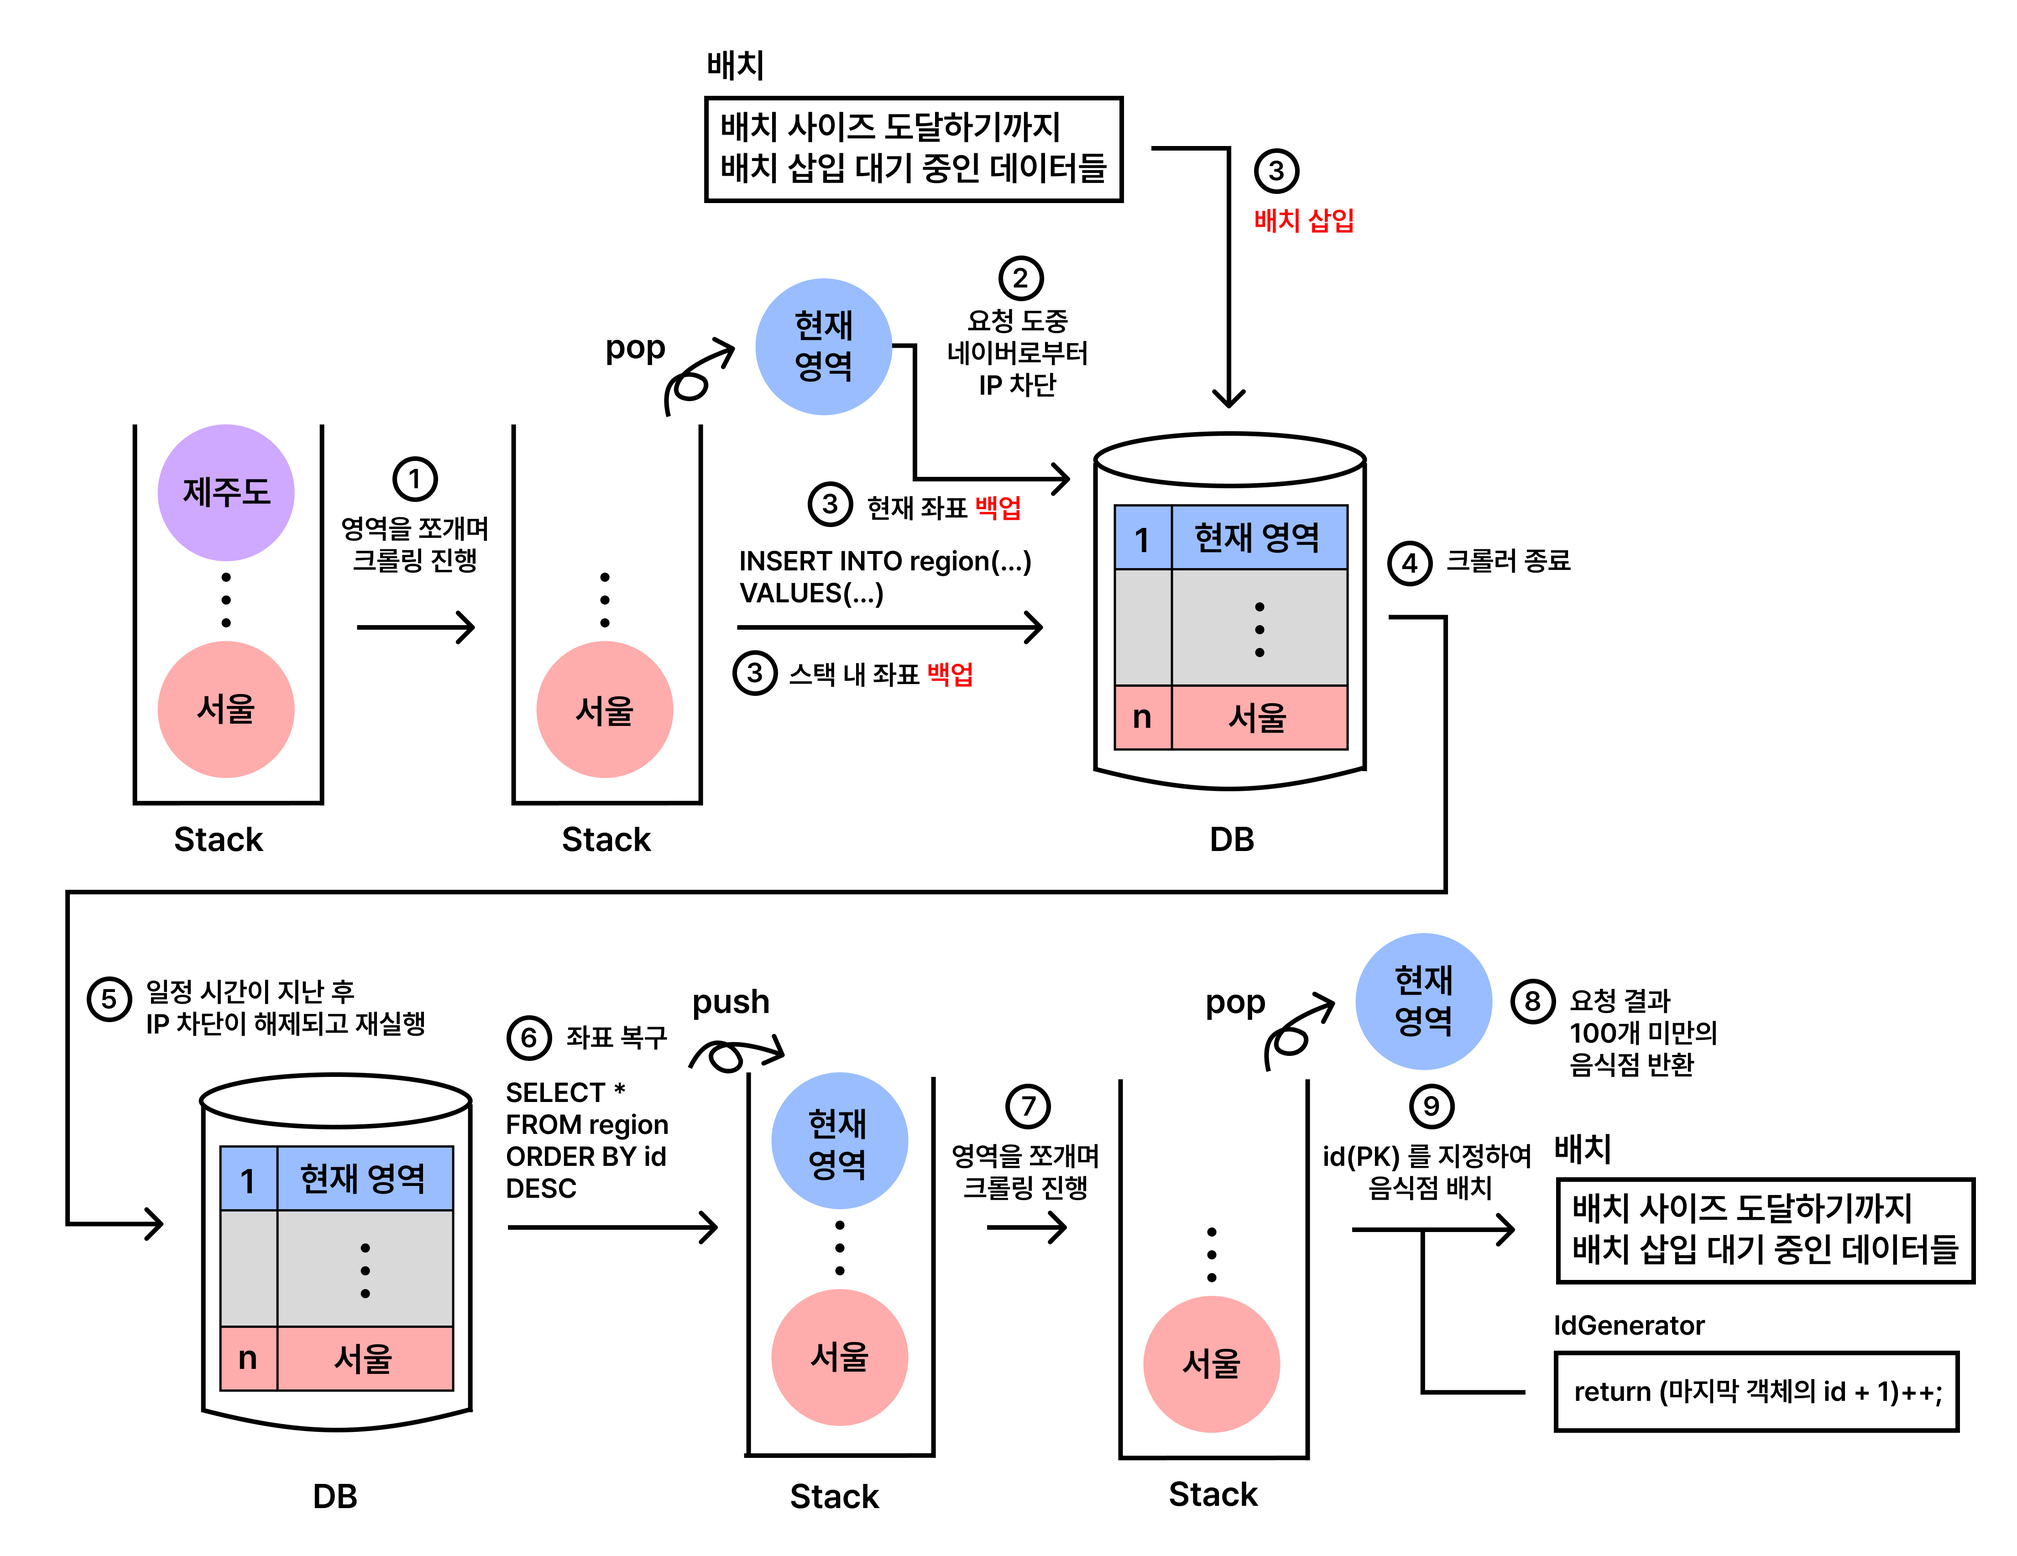
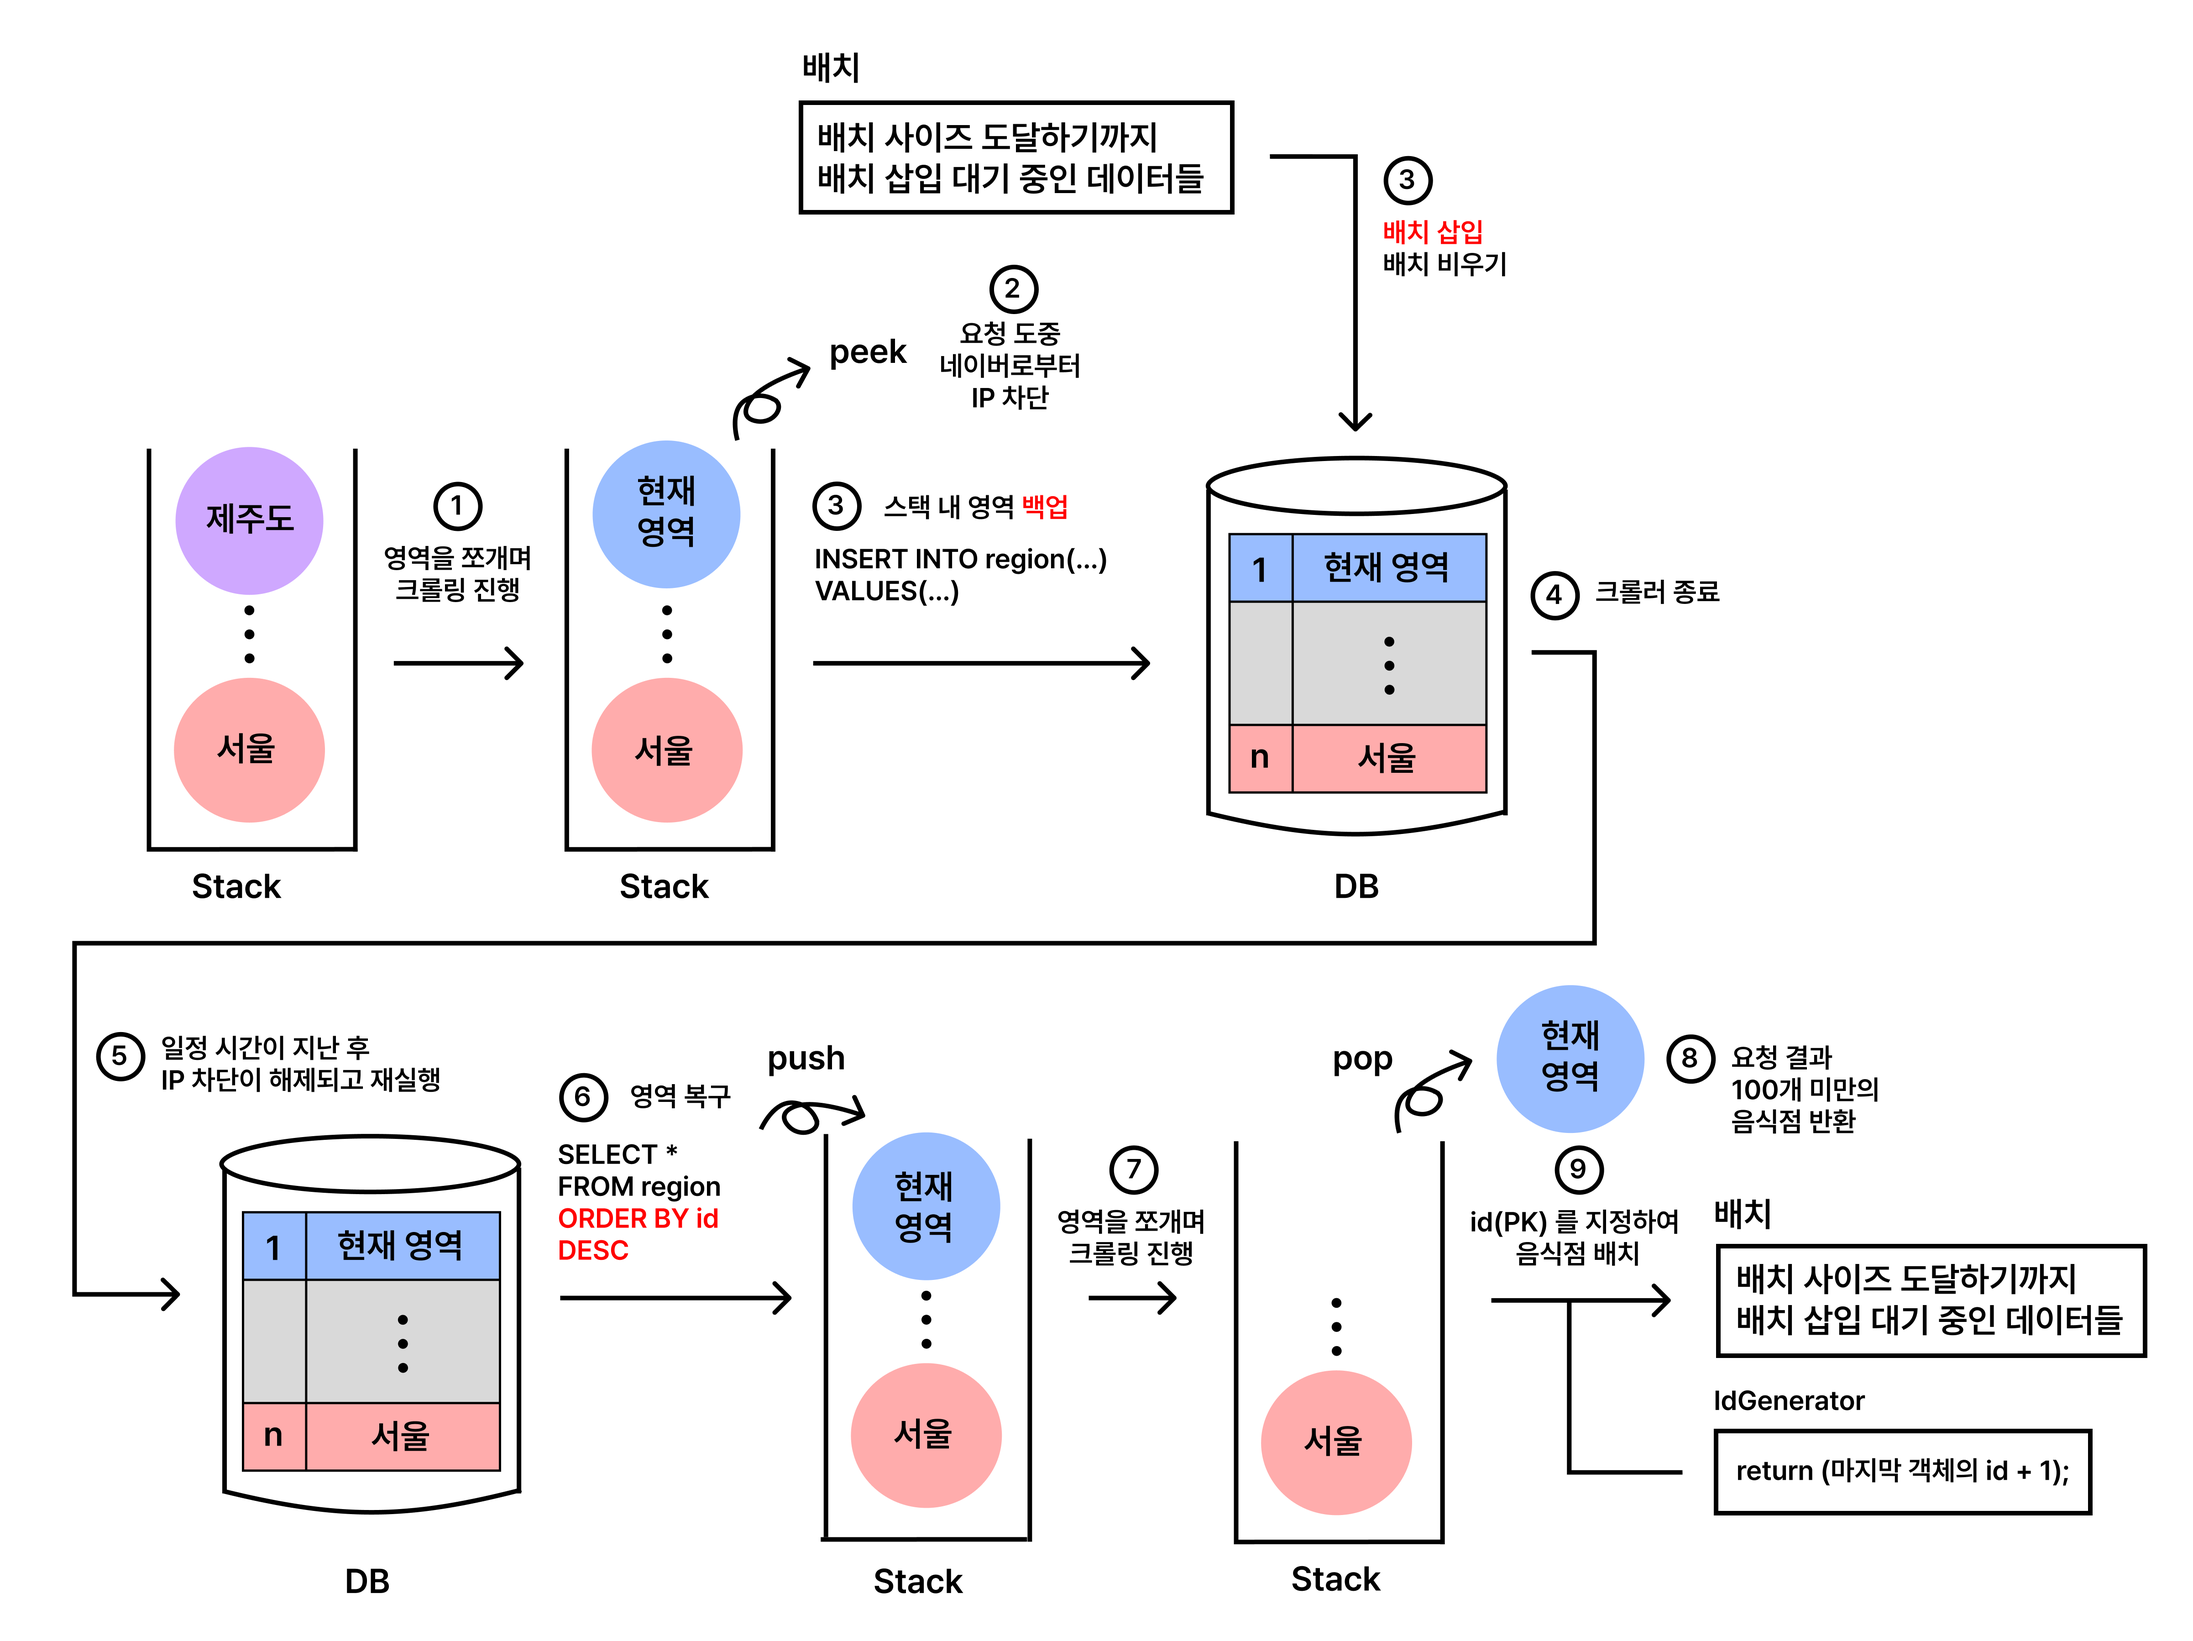
docs: README.md 수정

diff --git a/README.md b/README.md
@@ -2,7 +2,7 @@
 
 `국내 85만개의 음식점 데이터`를 크롤링하는 크롤러입니다.
 
-`17개의 행정구역(서울 ~ 제주도)`를 모두 순회하며 크롤링합니다.
+`17개의 행정구역(제주도 ~ 서울)`을 모두 순회하며 크롤링합니다.
 
 <br>
 
@@ -10,9 +10,17 @@
 
 `1차 크롤링`은 `음식점`과 `음식점 이미지`들을 크롤링합니다.
 
-`2차 크롤링`은 1차 크롤링으로 얻은 음식점 id 를 사용하여 
+`2차 크롤링`은 1차 크롤링으로 얻은 음식점 ID 를 사용하여 
 
 각 음식점의 `메뉴`, `메뉴 이미지`, `리뷰`, `리뷰 이미지`, `영업시간`을 크롤링합니다.
+
+<br>
+
+`1개의 기기`로 `3주`동안 약 `85만 개의 음식점`, `4천만 로우의 데이터` 를 수집합니다.
+
+<a href="https://www.atfis.or.kr/fip/front/M000000268/stats/service.do">2022년 음식점 통계 자료</a> 를 기반으로 추정한다면 
+
+2025년에는 약 6만개의 음식점이 증가함을 확인할 수 있습니다.
 
 <br>
 <br>
@@ -21,7 +29,7 @@
 
 ## ⚙ 구현 방식 : 스택을 활용한 반복 DFS 알고리즘
 
-호스트 서버에 `4개의 좌표(최동단, 최서단, 최남단, 최북단)`와 `반환 개수`를 
+호스트 서버에 `4개의 좌표(minX, minY, maxX, maxY)`와 `반환 개수`를 
 
 쿼리 파라미터로 지정하고 요청하면 `최대 100개`의 음식점을 반환합니다.
 
@@ -37,49 +45,52 @@
 <br>
 <br>
 
-## ⚙ 구현 방식 : 중복 크롤링 방지
+## ⚙ 구현 방식 : 좌표와 행정구역의 특성 차이로 발생하는 중복 크롤링 방지
 
-특정 행정구역이 다른 행정구역을 감쌀 경우 중복 크롤링이 발생할 수 있습니다.
+`좌표` 는 `직선` 이지만, `행정구역` 은 `직선이 아니기` 때문에 중복 크롤링이 발생할 수 있습니다.
 
 예를 들어, `서울` 을 타겟팅하여 크롤링할 경우 `경기도 음식점`까지 크롤링되고
 
-이후 `경기도` 을 타겟팅하여 크롤링을 진행하면
+이후 `경기도` 을 타겟팅하여 크롤링을 진행하면 동일한 음식점이 `중복 크롤링`될 수 있습니다.
 
-동일한 음식점이 다시 한번 크롤링될 수 있습니다.
+<img src="images/duplicated1.png">
 
-<img src="images/duplicated.png">
+따라서, 반환된 `음식점 주소`가 현재 `타겟팅한 행정구역`(서울)인지 검증해야 합니다.
 
-따라서 반환된 `음식점 주소`가 현재 `타겟팅한 행정구역`(서울)인지 검증해야 합니다.
+이 때, `주소`는 `음식점 이름`까지 포함하기 때문에
 
-이때 `주소`는 `음식점 이름`까지 포함하는데, `경기도 성남시 서울순대국` 처럼
+`주소`에서 `행정구역`만 `substring` 하여 `행정구역`만 검증해야 합니다.
 
-`음식점 이름`에 `행정구역 이름`이 사용될 경우
+예를 들어, `서울` 크롤링시 `경기도 성남시 서울순대국` 주소에서 `경기도`를 기준으로 검증해야 합니다.
 
-`행정구역`이 `경기도`이지만 `음식점 이름`에 `서울`이 포함되어있기 때문에 
-
-`서울` 을 타겟팅하여 크롤링하고 있음에도 불구하고 
-
-`경기도` 음식점이 크롤링될 수 있습니다.
-
-따라서 행정구역 `경기도`만 substring 하여 
-
-행정구역으로만 검증하여 중복 크롤링을 확실히 방지합니다.
 
 <br>
 <br>
 <br>
 
-## ⚙ 구현 방식 : 배치 삽입
+## ⚙ 구현 방식 : 좌표에 걸쳐진 음식점이 존재할 경우 발생하는 중복 크롤링 방지
+
+<img src="images/duplicated2.png">
+
+만약 쪼개어진 `좌표가 음식점에 걸쳐진다면 두 개의 사분면에서 모두 크롤링` 될 가능성이 있습니다.
+
+따라서 `HashSet` 에 `음식점 아이디`를 저장하고 조회하여 중복 크롤링을 방지해야 합니다.
+
+<br>
+<br>
+<br>
+
+## ⚙ 구현 방식 : 최대 4,950개의 음식점을 1번의 INSERT 로 저장
 
 국내에는 약 `85만개의 음식점`이 존재합니다.
 
-이를 하나씩 삽입한다면 `85만번의 삽입`이 발생합니다.
+이를 하나씩 삽입한다면 최소 `85만번의 삽입`이 발생합니다.
 
 `음식점` 외에도 `메뉴`, `리뷰` 등을 고려한다면 더 많은 삽입이 발생하게 될 것입니다.
 
 이를 위해 반환된 데이터를 `배치`에 쌓아두고 
 
-`배치 사이즈`에 도달하면 `배치 삽입`하도록 구현했습니다.
+`배치 사이즈 (50)`에 도달하면 `배치 삽입`하도록 구현했습니다.
 
 <br>
 <br>
@@ -87,9 +98,13 @@
 
 ## ⚙ 구현 방식 : IP 차단시 데이터 백업 및 복구
 
-일정 횟수 이상으로 너무 많은 요청을 보내면 호스트 서버로부터 IP 가 `차단`됩니다.
+장시간 요청을 보내면 `호스트 서버가 IP 를 차단`시킵니다.
 
-이를 방지하기 위해 `데이터 백업 및 복구 로직`을 개발하였습니다.
+`얼마나 깊이(depth) 영역을 쪼개어 들어갔는지에 대한 정보를 백업` 하고 이를 `복구` 하여
+
+크롤러를 재실행하더라도 차단 시점의 좌표부터 크롤링을 이어가기 위해
+
+`데이터 백업 및 복구 로직`을 개발하였습니다.
 
 아래와 같은 방식으로 백업 및 복구 로직이 이뤄집니다.
 
@@ -99,9 +114,25 @@
 <br>
 <br>
 
+## ⚙ 구현 방식 : IP 차단시 재시도
+
+장시간 요청을 보내면 `호스트 서버가 IP 를 차단`시킵니다.
+
+IP 가 차단되더라도 일정 시간 슬립한 이후 크롤링을 이어갈 수 있도록
+
+`재시도 로직`을 개발하였습니다.
+
+아래와 같은 방식으로 재시도 로직이 이뤄집니다.
+
+<img src="images/retry.png">
+
+<br>
+<br>
+<br>
+
 ## 🔖 기타 사항
 
-`1차 크롤링`에는 `최소 2일`이 소요되고, `2차 크롤링`에는 `최소 23일`이 소요됩니다.
+`1차 크롤링`에는 `최소 7일`이 소요되고, `2차 크롤링`에는 `최소 23일`이 소요됩니다.
 
 학업 목적으로 사용하실 분은 이메일로 문의주시면 `.env` 파일을 전달해드리겠습니다.
 
